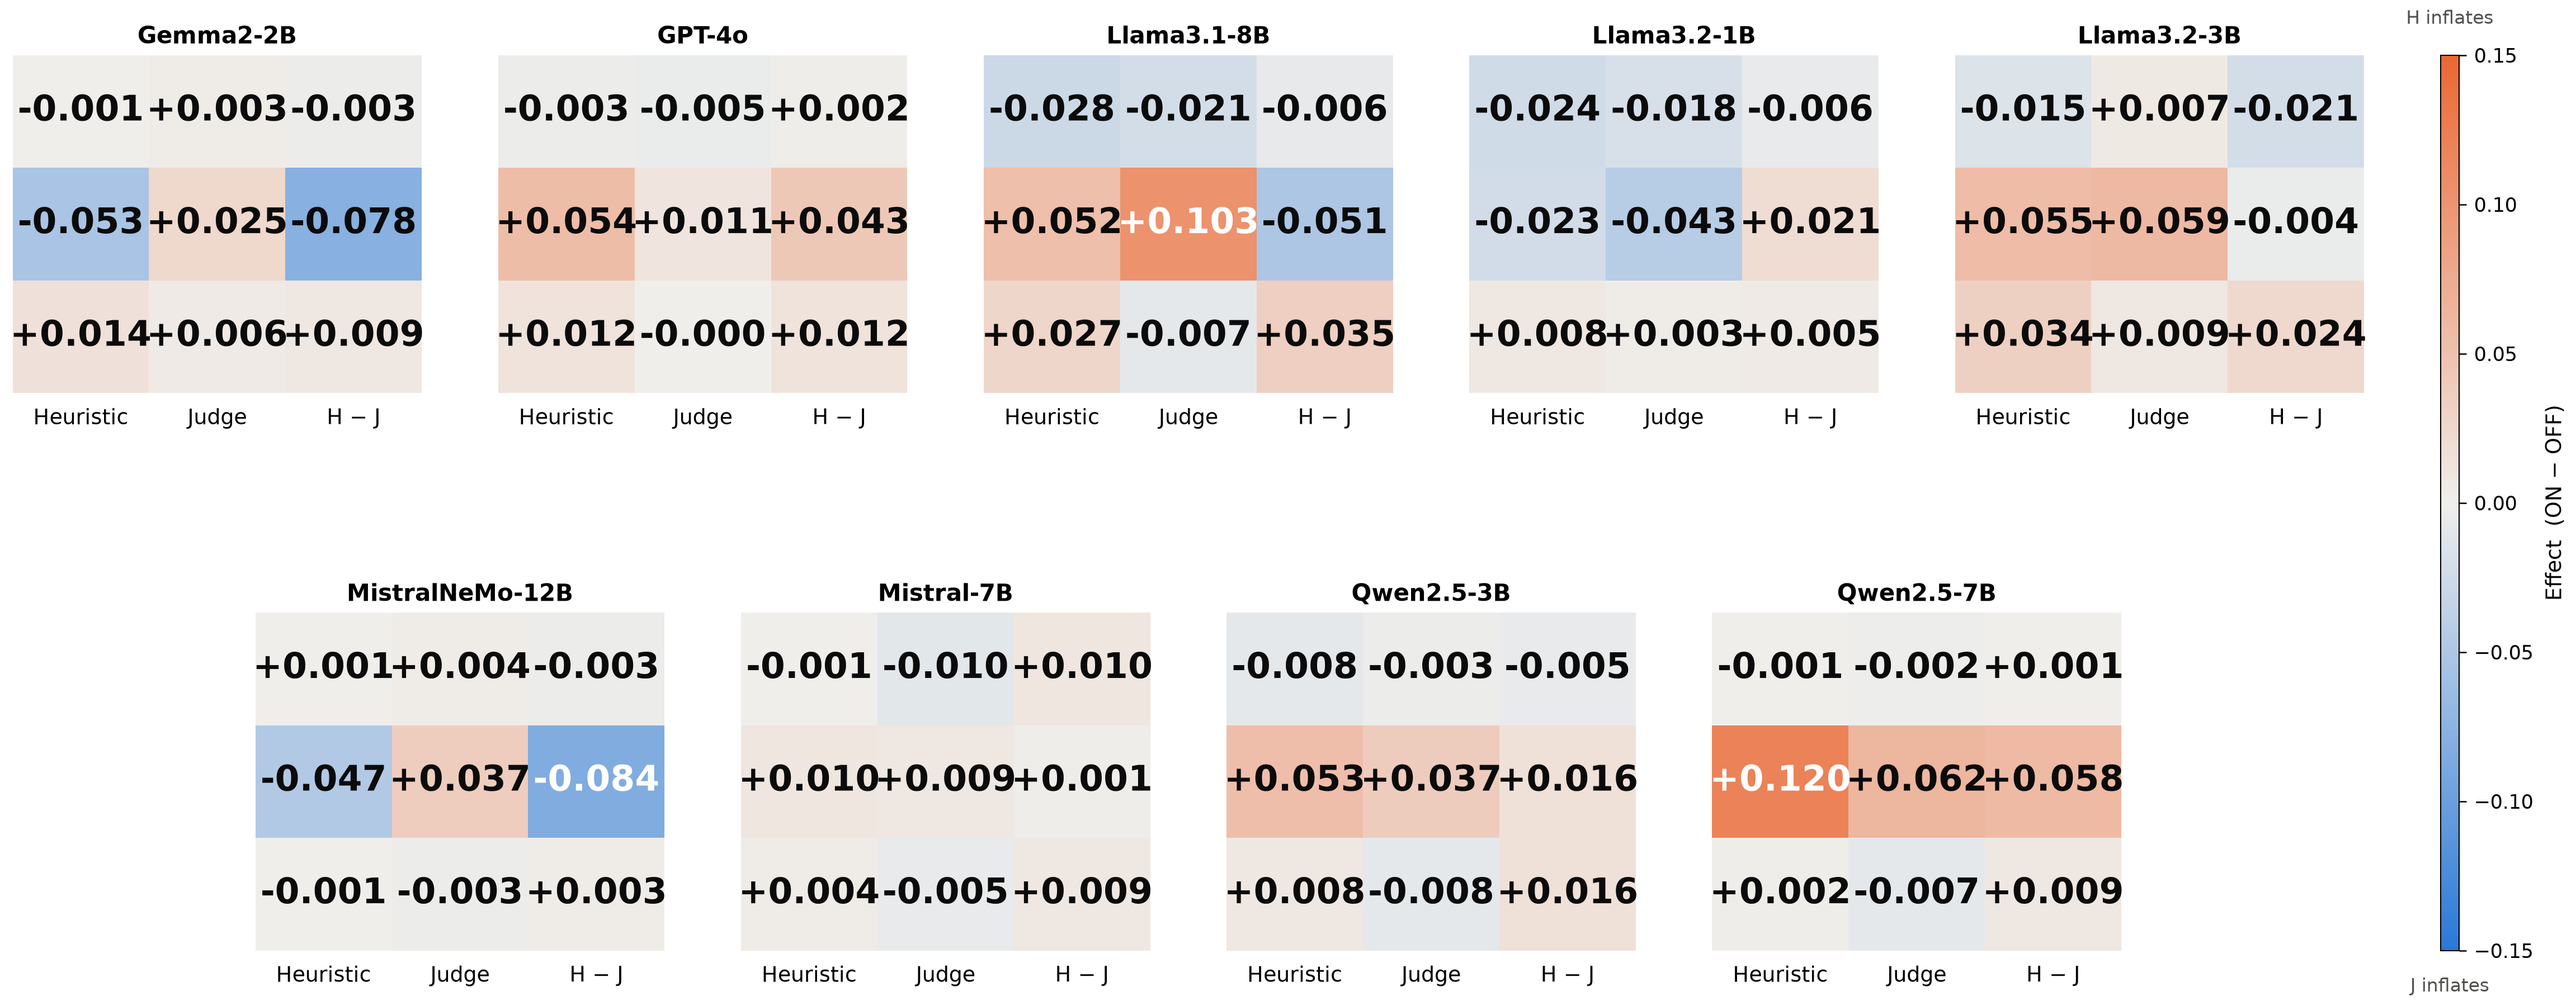
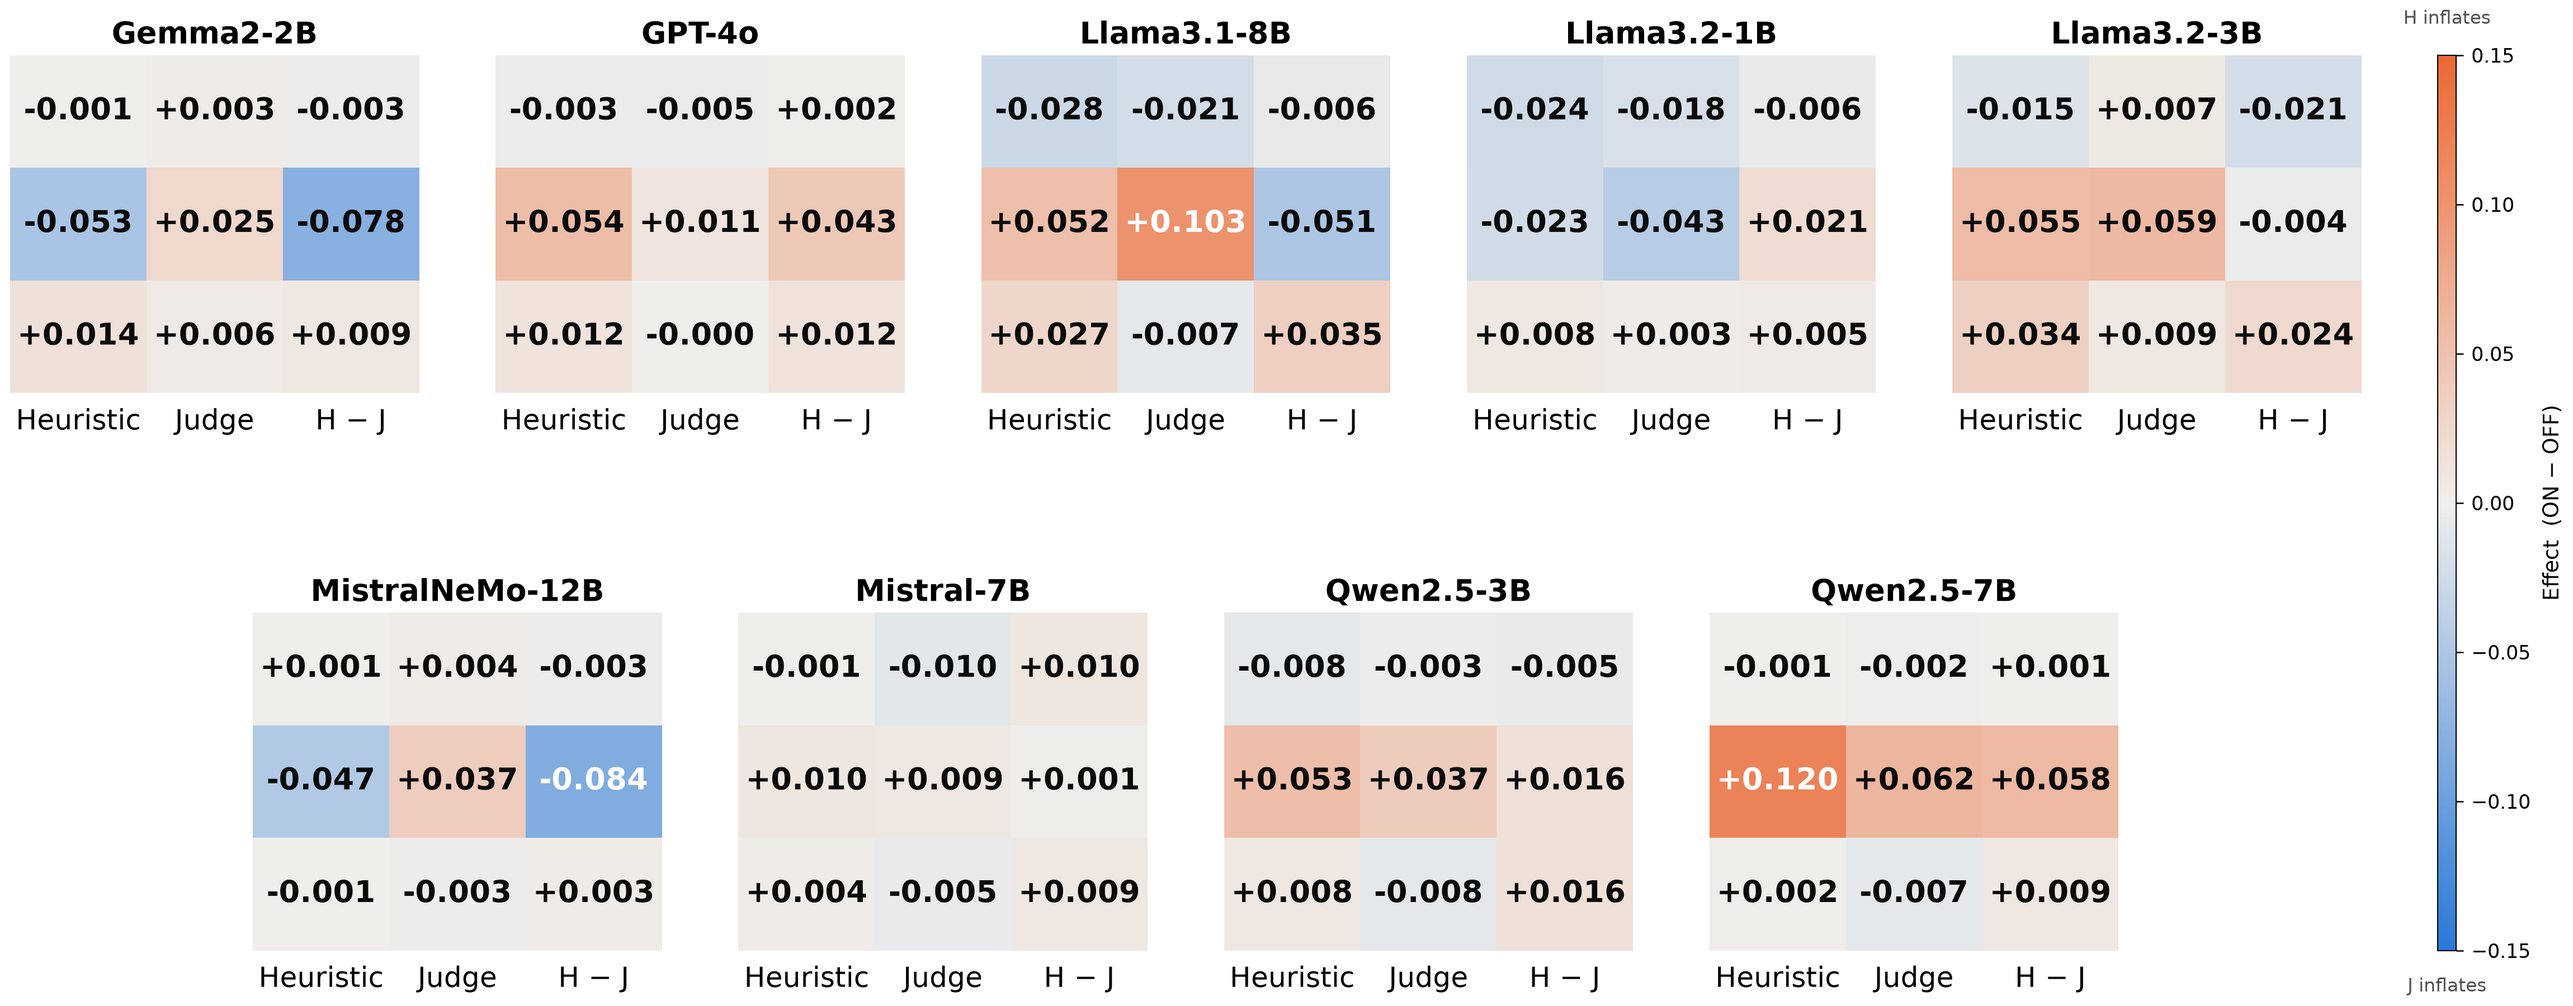
Updated figure 3

diff --git a/study/plot.py b/study/plot.py
@@ -335,10 +335,10 @@ def figure3_ablation(inst_df: pd.DataFrame, out_path: Path) -> None:
 
         is_leftmost = (idx % ncols == 0)
         ax.set_xticks(range(3))
-        ax.set_xticklabels(col_labels, fontsize=9)
+        ax.set_xticklabels(col_labels, fontsize=12)
         ax.set_yticks(range(len(factors)))
         ax.set_yticklabels(factor_labels if is_leftmost else [], fontsize=9)
-        ax.set_title(_name(model), fontsize=10, fontweight="bold", pad=5)
+        ax.set_title(_name(model), fontsize=13, fontweight="bold", pad=5)
         ax.tick_params(left=False, bottom=False)
         for sp in ax.spines.values():
             sp.set_visible(False)
@@ -349,7 +349,7 @@ def figure3_ablation(inst_df: pd.DataFrame, out_path: Path) -> None:
                 color = "white" if abs(val) / vmax > 0.55 else "#0b0b0b"
                 ax.text(ei, fi, f"{val:+.3f}",
                         ha="center", va="center",
-                        fontsize=15, color=color, fontweight="bold")
+                        fontsize=13, color=color, fontweight="bold")
 
     if im is not None:
         cbar = fig.colorbar(im, cax=cbar_ax)
@@ -532,4 +532,3 @@ def main() -> None:
 
 if __name__ == "__main__":
     main()
-
